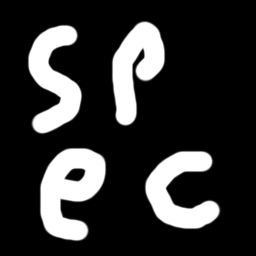
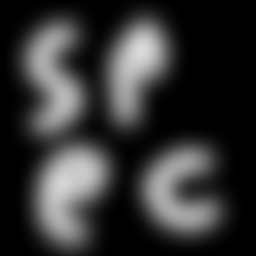
Potentially fixed directional light

diff --git a/Graphics2/main.cpp b/Graphics2/main.cpp
@@ -79,49 +79,35 @@ void updateCamera(double dt) {
 
 int main() {
 	OpenGLSetup::init();
-	Cube aCube;
 	Cube anotherCube;
 	Scene aScene;
 	Model aModel;
-	//Model anotherModel;
 	DirectionalLight sunLight;
 	glfwSetWindowSizeCallback(OpenGLSetup::window, windowResized);
 	int w, h;
 	glfwGetWindowSize(OpenGLSetup::window, &w, &h);
 	windowResized(OpenGLSetup::window, w, h);
-	aScene.loadSkybox("assets/skybox/posX.png", "assets/skybox/negX.png",
-		"assets/skybox/posY.png", "assets/skybox/negY.png",
-		"assets/skybox/posZ.png", "assets/skybox/negZ.png");
-	////In case of messed up skybox, use this for debug
-	//aScene.loadSkybox("assets/skybox/right.png", "assets/skybox/left.png",
-	//	"assets/skybox/top.png", "assets/skybox/bottom.png",
-	//	"assets/skybox/back.png", "assets/skybox/front.png");
-	//aCamera.setParent(&aCube);
+	////Skybox is very large, and causes massive slowdown in load times
+	//aScene.loadSkybox("assets/skybox/posX.png", "assets/skybox/negX.png",
+	//	"assets/skybox/posY.png", "assets/skybox/negY.png",
+	//	"assets/skybox/posZ.png", "assets/skybox/negZ.png");
+	//In case of messed up skybox, use this for debug
+	aScene.loadSkybox("assets/skybox/right.png", "assets/skybox/left.png",
+		"assets/skybox/top.png", "assets/skybox/bottom.png",
+		"assets/skybox/back.png", "assets/skybox/front.png");
 	aCamera.setParent(&aScene);
-	//aCamera.setParent(&aModel);
-	aCube.setParent(&aScene);
-	aCube.setPosition(glm::vec3(0.0f, 0.0f, 0.0f));
 	anotherCube.setRotation(glm::quat(glm::vec3(0.0f, 0.0f, 0.78f)));
 	anotherCube.setParent(&aScene);
 	anotherCube.setPosition(glm::vec3(0.0, 1.0, 0.0));
 	anotherCube.setScale(glm::vec3(0.5, 0.5, 0.5));
 	aCamera.setPosition(glm::vec3(0.0f, 0.0f, 6.0f));
 	aModel.setParent(&aScene);
-	assert(aModel.loadModel("assets/testing/capsule.obj"));
-	//anotherModel.setParent(&aScene);
-	//assert(anotherModel.loadModel("assets/testing/square.obj"));
-	//anotherModel.setRotation(glm::quat(glm::vec3(1.58, 0.7, 0.0)));
-	//anotherModel.setPosition(glm::vec3(0.0, 0.0, -5.0));
-	//assert(aModel.loadModel("assets/nanosuit/nanosuit.obj"));
-	//aModel.setScale(glm::vec3(0.2, 0.2, 0.2));
-	aModel.setPosition(glm::vec3(0.0, 0.0, 3.0));
-	//anotherModel.setPosition(glm::vec3(0.0, -2.0, 3.0));
-	//aModel.setRotation(glm::quat(glm::vec3(1.58, 0.0, 0.0)));
-	//aCamera.setRotation(glm::quat(glm::vec3(0.0f, 0.2f, 0.0f)));
+	assert(aModel.loadModel("assets/testing/square.obj"));
+	aModel.setRotation(glm::quat(glm::vec3(0.0, 0.78, 0.0)));
 	sunLight.direction = glm::vec3(0.0f, -1.0f, 0.0f);
-	sunLight.diffuse = glm::vec3(1.0, 1.0, 1.0);
-	sunLight.specular = glm::vec3(0.0, 0.0, 0.0);
+	sunLight.colour = glm::vec3(1.0, 1.0, 1.0);
 	sunLight.setParent(&aScene);
+	aScene.ambientLight = glm::vec3(0.2, 0.2, 0.2);
 	glfwSetInputMode(OpenGLSetup::window, GLFW_CURSOR, GLFW_CURSOR_HIDDEN);
 	double time = glfwGetTime();
 	double dt = 0.0;
@@ -158,10 +144,8 @@ int main() {
 		if (cam > 6.28f) {
 			cam -= 6.28f;
 		}
+		aModel.setRotation(glm::quat(glm::vec3(0.0, cam, 0.0)));
 		anotherCube.setScale(glm::vec3(s,s,s));
-		//aCamera.setPosition(glm::vec3(0.0f, 0.0f, -pos));
-		//aModel.setRotation(glm::quat(glm::vec3(cam, 0.0f, 0.0f)));
-		//sunLight.direction = glm::vec3(cos(cam), sin(cam), 0.0);
 		updateCamera(dt);
 		flip += dt;
 		if (flip > 5.0) {

diff --git a/Graphics2/renderer/Scene.cpp b/Graphics2/renderer/Scene.cpp
@@ -102,8 +102,7 @@ void Scene::updateLights() {
 	//Update directional light
 	if (dirLight) {
 		glUniform3fv(glGetUniformLocation(program, "dirLight.direction"), 1, &dirLight->direction[0]);
-		glUniform3fv(glGetUniformLocation(program, "dirLight.diffuse"), 1, &dirLight->diffuse[0]);
-		glUniform3fv(glGetUniformLocation(program, "dirLight.specular"), 1, &dirLight->specular[0]);
+		glUniform3fv(glGetUniformLocation(program, "dirLight.colour"), 1, &dirLight->colour[0]);
 	}
 	glUniform1i(glGetUniformLocation(program, "numDirLights"), dirLight ? 1 : 0);
 	//Update point lights
@@ -111,8 +110,7 @@ void Scene::updateLights() {
 	for (PointLight* p : pointLights) {
 		glm::mat4 mat = p->getGlobalMatrix();
 		glUniform3fv(glGetUniformLocation(program, ("pointLights[" + std::to_string(i) + "].position").c_str()), 1, &mat[3][0]);
-		glUniform3fv(glGetUniformLocation(program, ("pointLights[" + std::to_string(i) + "].diffuse").c_str()), 1, &p->diffuse[0]);
-		glUniform3fv(glGetUniformLocation(program, ("pointLights[" + std::to_string(i) + "].specular").c_str()), 1, &p->specular[0]);
+		glUniform3fv(glGetUniformLocation(program, ("pointLights[" + std::to_string(i) + "].colour").c_str()), 1, &p->colour[0]);
 		glUniform1f(glGetUniformLocation(program,  ("pointLights[" + std::to_string(i) + "].quadratic").c_str()), p->quadratic);
 		glUniform1f(glGetUniformLocation(program,  ("pointLights[" + std::to_string(i) + "].linear").c_str()), p->linear);
 		glUniform1f(glGetUniformLocation(program,  ("pointLights[" + std::to_string(i) + "].constant").c_str()), p->constant);
@@ -125,8 +123,7 @@ void Scene::updateLights() {
 		glm::mat4 mat = s->getGlobalMatrix();
 		glUniform3fv(glGetUniformLocation(program, ("spotLights[" + std::to_string(i) + "].position").c_str()), 1, &mat[3][0]);
 		glUniform3fv(glGetUniformLocation(program, ("spotLights[" + std::to_string(i) + "].direction").c_str()), 1, &s->direction[0]);
-		glUniform3fv(glGetUniformLocation(program, ("spotLights[" + std::to_string(i) + "].diffuse").c_str()), 1, &s->diffuse[0]);
-		glUniform3fv(glGetUniformLocation(program, ("spotLights[" + std::to_string(i) + "].specular").c_str()), 1, &s->specular[0]);
+		glUniform3fv(glGetUniformLocation(program, ("spotLights[" + std::to_string(i) + "].colour").c_str()), 1, &s->colour[0]);
 		glUniform1f(glGetUniformLocation(program,  ("spotLights[" + std::to_string(i) + "].quadratic").c_str()), s->quadratic);
 		glUniform1f(glGetUniformLocation(program,  ("spotLights[" + std::to_string(i) + "].linear").c_str()), s->linear);
 		glUniform1f(glGetUniformLocation(program,  ("spotLights[" + std::to_string(i) + "].constant").c_str()), s->constant);

diff --git a/Graphics2/renderer/Mesh.cpp b/Graphics2/renderer/Mesh.cpp
@@ -106,6 +106,40 @@ void Mesh::render(Camera* cam) {
 	//glDrawArrays(GL_TRIANGLES, 0, vertices.size() / 3);
 	glBindBuffer(GL_ELEMENT_ARRAY_BUFFER, elementBuffer);
 	glDrawElements(GL_TRIANGLES, indices.size(), GL_UNSIGNED_SHORT, 0);
+	//////DEBUG//////
+	glMatrixMode(GL_PROJECTION);
+	glLoadMatrixf((const GLfloat*)&(cam->getProjection())[0]);
+	glMatrixMode(GL_MODELVIEW);
+	glm::mat4 MV = (cam->getView()) * (this->getGlobalMatrix());
+	glLoadMatrixf((const GLfloat*)&MV[0]);
+	glUseProgram(0);
+	glBegin(GL_LINES);
+	for (int i = 0; i<indices.size(); i++) {
+		//Normals
+		glColor3f(0, 0, 1);
+		glm::vec3 p = vertices[indices[i]];
+		glVertex3fv(&p.x);
+		glm::vec3 o = glm::normalize(normals[indices[i]]);
+		p += o*0.1f;
+		glVertex3fv(&p.x);
+		//Tangents
+		glColor3f(1, 0, 0);
+		o = glm::normalize(tangents[indices[i]]);
+		p = vertices[indices[i]];
+		glVertex3fv(&p.x);
+		p += o*0.1f;
+		glVertex3fv(&p.x);
+		//Bitangents
+		glColor3f(0, 1, 0);
+		o = glm::normalize(bitangents[indices[i]]);
+		p = vertices[indices[i]];
+		glVertex3fv(&p.x);
+		p += o*0.1f;
+		glVertex3fv(&p.x);
+	}
+	glEnd();
+
+
 }
 
 void Mesh::setShininess(float shininess) {

diff --git a/Graphics2/renderer/OpenGLSetup.cpp b/Graphics2/renderer/OpenGLSetup.cpp
@@ -59,8 +59,8 @@ void OpenGLSetup::sharedInit() {
 	//New OpenGL only
 	glfwWindowHint(GLFW_VERSION_MAJOR, 3);
 	glfwWindowHint(GLFW_VERSION_MINOR, 3);
-	//No ignoring the above please
-	glfwWindowHint(GLFW_OPENGL_PROFILE, GLFW_OPENGL_CORE_PROFILE);
+	//glfwWindowHint(GLFW_OPENGL_PROFILE, GLFW_OPENGL_CORE_PROFILE);
+	glfwWindowHint(GLFW_OPENGL_PROFILE, GLFW_OPENGL_COMPAT_PROFILE);
 #ifdef __APPLE__
 	//Don't know why I bother with this, I doubt this compiles on apple anyway
 	glfwWindowHint(GLFW_OPENGL_FORWARD_COMPAT, GL_TRUE);

diff --git a/Graphics2/renderer/Model.cpp b/Graphics2/renderer/Model.cpp
@@ -73,7 +73,7 @@ bool Model::loadModel(const char* path) {
 		m->setNormal(OpenGLSetup::loadImage(baseDir + mat.normal_texname));
 		m->setSpecular(OpenGLSetup::loadImage(baseDir + mat.specular_texname));
 		m->setEmission(OpenGLSetup::loadImage(baseDir + mat.emissive_texname));
-		m->setShininess(*mat.specular);
+		m->setShininess(mat.shininess);
 		m->setParent(this);
 	}
 	return true;

diff --git a/Graphics2/renderer/Light.h b/Graphics2/renderer/Light.h
@@ -5,7 +5,6 @@ class Light :
 public:
 	Light();
 	virtual ~Light();
-	glm::vec3 diffuse;
-	glm::vec3 specular;
+	glm::vec3 colour;
 };
 
